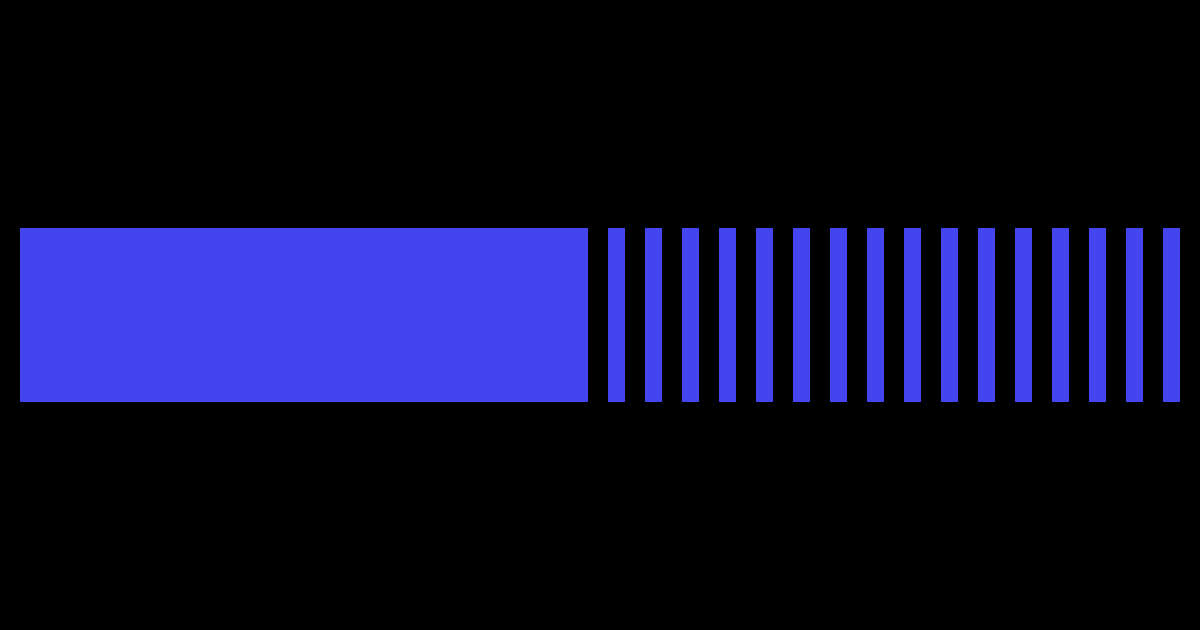
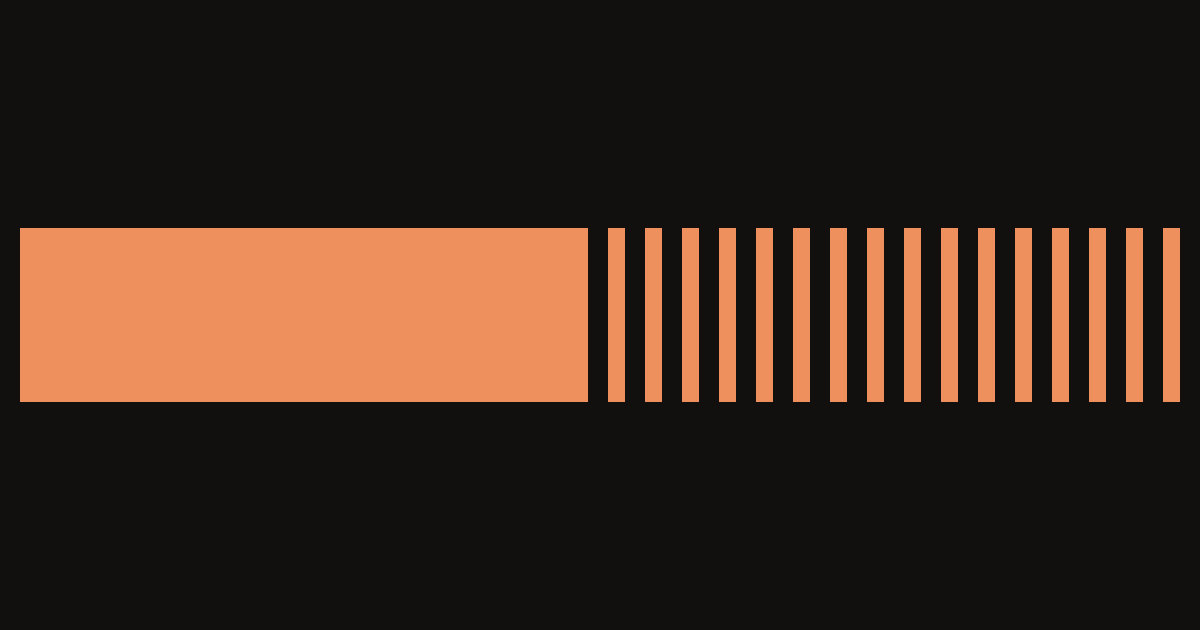
New Blog Post on 2025-02-07 16:47:10

Changed region(s): [[0.0, 0.3619, 0.9867, 0.6635]]

diff --git a/public/css/terminal.min.de0bf1d86376fea76230091a26743306f6c28380a2a7fd0aa5da258a9711c7cd.css b/public/css/terminal.min.de0bf1d86376fea76230091a26743306f6c28380a2a7fd0aa5da258a9711c7cd.css
@@ -1,0 +1,1 @@
+@import "https://cdn.jsdelivr.net/npm/firacode@6.2.0/distr/fira_code.css";:root{--background:#120f0f;--foreground:#eceae5;--accent:#ee905d;--radius:0;--font-size:1rem;--line-height:1.54em}html{box-sizing:border-box}*,*:before,*:after{box-sizing:inherit;margin:0;padding:0}body{margin:0;padding:0;font-family:fira code,Monaco,Consolas,ubuntu mono,monospace;font-size:var(--font-size);font-weight:400;line-height:var(--line-height);letter-spacing:-.01em;background-color:var(--background);color:var(--foreground);text-rendering:optimizeLegibility;font-feature-settings:"liga","tnum","ss01","locl";font-variant-ligatures:contextual;-webkit-overflow-scrolling:touch;-webkit-text-size-adjust:100%}::placeholder{color:color-mix(in srgb var(--foreground) 50%,black)}h1{text-decoration:underline;text-decoration-thickness:2px;text-underline-offset:calc(var(--font-size) * .2)}h1,h2{text-transform:uppercase}h1,h2,h3,h4,h5,h6{font-size:calc(var(--font-size) * 1.1);letter-spacing:.04em}h1,h2,h3,h4,h5,h6,p,ul,ol,img,figure,video,table{margin:calc(var(--line-height) * 1.2)0}a{color:var(--accent)}button{position:relative;font:inherit;font-weight:700;text-decoration:none;text-align:center;background:0 0;color:var(--accent);padding:5px 18px;border:4px solid var(--accent);border-radius:var(--radius);transition:background .15s linear;appearance:none;cursor:pointer;outline:none}button:hover{background:color-mix(in srgb,var(--accent) 15%,transparent)}button:focus-visible,a:focus-visible{outline:1px solid var(--accent);outline-offset:2px}fieldset{display:inline-block;border:2px solid var(--foreground);border-radius:calc(var(--radius) * 1.6);padding:10px}fieldset *:first-child{margin-top:0}fieldset input,fieldset select,fieldset textarea,fieldset label,fieldset button{margin-top:calc(var(--line-height) * .5);width:100%}label{display:inline-block}label input{margin-top:0}input,textarea,select{background:0 0;color:var(--foreground);border:1px solid var(--foreground);border-radius:var(--radius);padding:10px;font:inherit;appearance:none}input[type=checkbox]{width:auto}input:focus-visible,input:active,textarea:focus-visible,textarea:active,select:focus-visible,select:active{border-color:var(--accent);outline:1px solid var(--accent);outline-offset:2px}input:active,textarea:active,select:active{box-shadow:none}select{background-image:linear-gradient( 45deg,transparent 50%,var(--foreground) 50% ),linear-gradient(135deg,var(--foreground) 50%,transparent 50%);background-position:calc(100% - 20px),calc(100% - 15px);background-size:5px 5px,5px 5px;background-repeat:no-repeat;padding-right:40px}select option{background:var(--background)}input[type=checkbox]{vertical-align:middle;padding:10px;box-shadow:inset 0 0 0 3px var(--background)}input[type=checkbox]:checked{background:var(--accent)}img{display:block;max-width:100%;border:8px solid var(--accent);border-radius:var(--radius);padding:8px;overflow:hidden}figure img,figure video{margin-bottom:0}figure figcaption{background:var(--accent);color:var(--background);text-align:center;font-size:1em;font-weight:400;margin-top:-8px;border-radius:0 0 var(--radius)var(--radius)}ul,ol{margin-left:4ch;padding:0}ul ul,ul ol,ol ul,ol ol{margin-top:0}li::marker{color:var(--accent)}ul li,ol li{position:relative}code,kbd{font-family:fira code,Monaco,Consolas,Ubuntu Mono,monospace!important;font-feature-settings:normal;background:color-mix(in srgb,var(--foreground) 5%,transparent);color:color-mix(in srgb,var(--foreground) 5%,var(--accent));padding:0 6px;margin:0 2px;font-size:.95em}code{border:1px solid color-mix(in srgb,var(--foreground) 25%,transparent)}kbd{border-top:1px solid color-mix(in srgb,var(--accent) 25%,transparent);border-left:1px solid var(--accent);border-right:1px solid var(--accent);border-bottom:4px solid var(--accent);border-radius:4px}code code{background:0 0;padding:0;margin:0}pre{tab-size:4;background:color-mix(in srgb,var(--foreground) 5%,transparent)!important;color:color-mix(in srgb,var(--foreground) 5%,var(--accent));padding:20px 10px;font-size:.95em!important;overflow:auto;border-radius:var(--radius);border:1px solid color-mix(in srgb,var(--foreground) 25%,transparent)}pre code{background:0 0!important;margin:0;padding:0;font-size:inherit;border:none}sup{line-height:0}abbr{position:relative;text-decoration-style:wavy;text-decoration-color:var(--accent);cursor:help}sub{bottom:-.25em}sup{top:-.25em}mark{background:color-mix(in srgb,var(--accent) 45%,transparent);color:var(--foreground)}blockquote{position:relative;border-top:1px solid var(--accent);border-bottom:1px solid var(--accent);margin:0;padding:25px}blockquote:before{content:">";display:block;position:absolute;left:0;color:var(--accent)}blockquote p:first-child{margin-top:0}blockquote p:last-child{margin-bottom:0}table{table-layout:auto;border-collapse:collapse}table,th,td{border:2px solid var(--foreground);padding:10px}th{border-style:solid;color:var(--foreground);text-align:left;text-transform:uppercase;letter-spacing:.04em}hr{width:100%;border:none;background:var(--accent);height:2px}h1,h2,h3,h4,h5,h6,b,strong,th,button{font-weight:600}

diff --git a/public/about/index.html b/public/about/index.html
@@ -2,16 +2,18 @@
 <html lang="en">
 <head>
   
-    <title>Tags :: A simple blog</title>
+    <title>About :: A simple blog</title>
   
   <meta http-equiv="content-type" content="text/html; charset=utf-8">
 <meta name="viewport" content="width=device-width, initial-scale=1.0">
-<meta name="description" content="" />
+<meta name="description" content="Hi there My name is Tony and I&rsquo;m the author of this simple blog. I made it to document and present cool ideas.
+When I&rsquo;m not designing, implementing, and maintaining secure and efficient network infrastructures, supporting virtualization and cloud networking, and contributing to ensure data protection, disaster recovery, and business continuity, I&rsquo;m learning anything that interests me.
+" />
 <meta name="keywords" content="" />
 
   <meta name="robots" content="noodp" />
 
-<link rel="canonical" href="/tags/" />
+<link rel="canonical" href="/about/" />
 
 
 
@@ -74,15 +76,17 @@
   
     <meta name="twitter:site" content="" />
   
-    <meta name="twitter:creator" content="" />
+    <meta name="twitter:creator" content="Tony" />
 
 
 
 <meta property="og:locale" content="en" />
-<meta property="og:type" content="website" />
-<meta property="og:title" content="Tags">
-<meta property="og:description" content="" />
-<meta property="og:url" content="/tags/" />
+<meta property="og:type" content="article" />
+<meta property="og:title" content="About">
+<meta property="og:description" content="Hi there My name is Tony and I&rsquo;m the author of this simple blog. I made it to document and present cool ideas.
+When I&rsquo;m not designing, implementing, and maintaining secure and efficient network infrastructures, supporting virtualization and cloud networking, and contributing to ensure data protection, disaster recovery, and business continuity, I&rsquo;m learning anything that interests me.
+" />
+<meta property="og:url" content="/about/" />
 <meta property="og:site_name" content="A simple blog" />
 
   <meta property="og:image" content="/og-image.png">
@@ -91,10 +95,10 @@
 <meta property="og:image:height" content="627">
 
 
+  <meta property="article:published_time" content="2025-01-01 00:00:00 &#43;0000 UTC" />
 
 
 
-  <link href="/tags/index.xml" rel="alternate" type="application/rss+xml" title="A simple blog" />
 
 
 
@@ -177,22 +181,32 @@
 
   <div class="content">
     
-  <div class="terms">
-    <h1>Tags</h1>
+<article class="post">
+  <h1 class="post-title">
+    <a href="/about/">About</a>
+  </h1>
+  <div class="post-meta"><time class="post-date">2025-01-01</time><span class="post-author">Tony</span></div>
+
+  
+  
+
+
+  
+
+  <div class="post-content"><div>
+        <h1 id="hi-there">Hi there<a href="#hi-there" class="hanchor" ariaLabel="Anchor">#</a> </h1>
+<p>My name is Tony and I&rsquo;m the author of this simple blog. I made it to document and present cool ideas.</p>
+<p>When I&rsquo;m not designing, implementing, and maintaining secure and efficient network infrastructures, supporting virtualization and cloud networking, and contributing to ensure data protection, disaster recovery, and business continuity, I&rsquo;m learning anything that interests me.</p>
+
+      </div></div>
+
+  
+
+  
     
-    <ul>
-      
-      
-        
-        
-        
-          <li>
-            <a class="terms-title" href="/tags/test/">test [3]</a>
-          </li>
-        
-      
-    </ul>
-  </div>
+
+  
+</article>
 
   </div>
 

diff --git a/public/posts/snatching-chucks-insane-blog-pipeline/index.html b/public/posts/snatching-chucks-insane-blog-pipeline/index.html
@@ -56,7 +56,7 @@ testing!!! 123 5678 shoutout to NetworkChuck over at https://www.youtube.com/@Ne
   <link rel="stylesheet" href="/css/syntax.min.cc789ed9377260d7949ea4c18781fc58959a89287210fe4edbff44ebfc1511b6.css">
 
   
-  <link rel="stylesheet" href="/css/terminal.min.979dd9fa3d4f89b58f0894115ab3260d6d1233e3e3dccba706c2195efcafb362.css">
+  <link rel="stylesheet" href="/css/terminal.min.de0bf1d86376fea76230091a26743306f6c28380a2a7fd0aa5da258a9711c7cd.css">
 
   
   <link rel="stylesheet" href="/css/terms.min.b81791663c3790e738e571cdbf802312390d30e4b1d8dc9d814a5b5454d0ac11.css">
@@ -155,10 +155,21 @@ testing!!! 123 5678 shoutout to NetworkChuck over at https://www.youtube.com/@Ne
           <li><a href="/about" >About</a></li>
         
       
-        
-          <li><a href="/showcase" >Showcase</a></li>
-        
       
+        <li>
+          <ul class="menu">
+            <li class="menu__trigger">Show more&nbsp;▾</li>
+            <li>
+              <ul class="menu__dropdown">
+                
+                  
+                    <li><a href="/showcase" >Showcase</a></li>
+                  
+                
+              </ul>
+            </li>
+          </ul>
+        </li>
       
     
   </ul>

diff --git a/public/posts/just-a-test/index.html b/public/posts/just-a-test/index.html
@@ -58,7 +58,7 @@ fin.
   <link rel="stylesheet" href="/css/syntax.min.cc789ed9377260d7949ea4c18781fc58959a89287210fe4edbff44ebfc1511b6.css">
 
   
-  <link rel="stylesheet" href="/css/terminal.min.979dd9fa3d4f89b58f0894115ab3260d6d1233e3e3dccba706c2195efcafb362.css">
+  <link rel="stylesheet" href="/css/terminal.min.de0bf1d86376fea76230091a26743306f6c28380a2a7fd0aa5da258a9711c7cd.css">
 
   
   <link rel="stylesheet" href="/css/terms.min.b81791663c3790e738e571cdbf802312390d30e4b1d8dc9d814a5b5454d0ac11.css">
@@ -159,10 +159,21 @@ fin.
           <li><a href="/about" >About</a></li>
         
       
-        
-          <li><a href="/showcase" >Showcase</a></li>
-        
       
+        <li>
+          <ul class="menu">
+            <li class="menu__trigger">Show more&nbsp;▾</li>
+            <li>
+              <ul class="menu__dropdown">
+                
+                  
+                    <li><a href="/showcase" >Showcase</a></li>
+                  
+                
+              </ul>
+            </li>
+          </ul>
+        </li>
       
     
   </ul>

diff --git a/public/404.html b/public/404.html
@@ -54,7 +54,7 @@
   <link rel="stylesheet" href="/css/syntax.min.cc789ed9377260d7949ea4c18781fc58959a89287210fe4edbff44ebfc1511b6.css">
 
   
-  <link rel="stylesheet" href="/css/terminal.min.979dd9fa3d4f89b58f0894115ab3260d6d1233e3e3dccba706c2195efcafb362.css">
+  <link rel="stylesheet" href="/css/terminal.min.de0bf1d86376fea76230091a26743306f6c28380a2a7fd0aa5da258a9711c7cd.css">
 
   
   <link rel="stylesheet" href="/css/terms.min.b81791663c3790e738e571cdbf802312390d30e4b1d8dc9d814a5b5454d0ac11.css">
@@ -149,10 +149,21 @@
           <li><a href="/about" >About</a></li>
         
       
-        
-          <li><a href="/showcase" >Showcase</a></li>
-        
       
+        <li>
+          <ul class="menu">
+            <li class="menu__trigger">Show more&nbsp;▾</li>
+            <li>
+              <ul class="menu__dropdown">
+                
+                  
+                    <li><a href="/showcase" >Showcase</a></li>
+                  
+                
+              </ul>
+            </li>
+          </ul>
+        </li>
       
     
   </ul>

diff --git a/public/categories/index.html b/public/categories/index.html
@@ -54,7 +54,7 @@
   <link rel="stylesheet" href="/css/syntax.min.cc789ed9377260d7949ea4c18781fc58959a89287210fe4edbff44ebfc1511b6.css">
 
   
-  <link rel="stylesheet" href="/css/terminal.min.979dd9fa3d4f89b58f0894115ab3260d6d1233e3e3dccba706c2195efcafb362.css">
+  <link rel="stylesheet" href="/css/terminal.min.de0bf1d86376fea76230091a26743306f6c28380a2a7fd0aa5da258a9711c7cd.css">
 
   
   <link rel="stylesheet" href="/css/terms.min.b81791663c3790e738e571cdbf802312390d30e4b1d8dc9d814a5b5454d0ac11.css">
@@ -151,10 +151,21 @@
           <li><a href="/about" >About</a></li>
         
       
-        
-          <li><a href="/showcase" >Showcase</a></li>
-        
       
+        <li>
+          <ul class="menu">
+            <li class="menu__trigger">Show more&nbsp;▾</li>
+            <li>
+              <ul class="menu__dropdown">
+                
+                  
+                    <li><a href="/showcase" >Showcase</a></li>
+                  
+                
+              </ul>
+            </li>
+          </ul>
+        </li>
       
     
   </ul>

diff --git a/public/index.html b/public/index.html
@@ -55,7 +55,7 @@
   <link rel="stylesheet" href="/css/syntax.min.cc789ed9377260d7949ea4c18781fc58959a89287210fe4edbff44ebfc1511b6.css">
 
   
-  <link rel="stylesheet" href="/css/terminal.min.979dd9fa3d4f89b58f0894115ab3260d6d1233e3e3dccba706c2195efcafb362.css">
+  <link rel="stylesheet" href="/css/terminal.min.de0bf1d86376fea76230091a26743306f6c28380a2a7fd0aa5da258a9711c7cd.css">
 
   
   <link rel="stylesheet" href="/css/terms.min.b81791663c3790e738e571cdbf802312390d30e4b1d8dc9d814a5b5454d0ac11.css">
@@ -152,10 +152,21 @@
           <li><a href="/about" >About</a></li>
         
       
-        
-          <li><a href="/showcase" >Showcase</a></li>
-        
       
+        <li>
+          <ul class="menu">
+            <li class="menu__trigger">Show more&nbsp;▾</li>
+            <li>
+              <ul class="menu__dropdown">
+                
+                  
+                    <li><a href="/showcase" >Showcase</a></li>
+                  
+                
+              </ul>
+            </li>
+          </ul>
+        </li>
       
     
   </ul>

diff --git a/public/posts/index.html b/public/posts/index.html
@@ -54,7 +54,7 @@
   <link rel="stylesheet" href="/css/syntax.min.cc789ed9377260d7949ea4c18781fc58959a89287210fe4edbff44ebfc1511b6.css">
 
   
-  <link rel="stylesheet" href="/css/terminal.min.979dd9fa3d4f89b58f0894115ab3260d6d1233e3e3dccba706c2195efcafb362.css">
+  <link rel="stylesheet" href="/css/terminal.min.de0bf1d86376fea76230091a26743306f6c28380a2a7fd0aa5da258a9711c7cd.css">
 
   
   <link rel="stylesheet" href="/css/terms.min.b81791663c3790e738e571cdbf802312390d30e4b1d8dc9d814a5b5454d0ac11.css">
@@ -151,10 +151,21 @@
           <li><a href="/about" >About</a></li>
         
       
-        
-          <li><a href="/showcase" >Showcase</a></li>
-        
       
+        <li>
+          <ul class="menu">
+            <li class="menu__trigger">Show more&nbsp;▾</li>
+            <li>
+              <ul class="menu__dropdown">
+                
+                  
+                    <li><a href="/showcase" >Showcase</a></li>
+                  
+                
+              </ul>
+            </li>
+          </ul>
+        </li>
       
     
   </ul>

diff --git a/public/posts/testing-powershell-script/index.html b/public/posts/testing-powershell-script/index.html
@@ -55,7 +55,7 @@
   <link rel="stylesheet" href="/css/syntax.min.cc789ed9377260d7949ea4c18781fc58959a89287210fe4edbff44ebfc1511b6.css">
 
   
-  <link rel="stylesheet" href="/css/terminal.min.979dd9fa3d4f89b58f0894115ab3260d6d1233e3e3dccba706c2195efcafb362.css">
+  <link rel="stylesheet" href="/css/terminal.min.de0bf1d86376fea76230091a26743306f6c28380a2a7fd0aa5da258a9711c7cd.css">
 
   
   <link rel="stylesheet" href="/css/terms.min.b81791663c3790e738e571cdbf802312390d30e4b1d8dc9d814a5b5454d0ac11.css">
@@ -153,10 +153,21 @@
           <li><a href="/about" >About</a></li>
         
       
-        
-          <li><a href="/showcase" >Showcase</a></li>
-        
       
+        <li>
+          <ul class="menu">
+            <li class="menu__trigger">Show more&nbsp;▾</li>
+            <li>
+              <ul class="menu__dropdown">
+                
+                  
+                    <li><a href="/showcase" >Showcase</a></li>
+                  
+                
+              </ul>
+            </li>
+          </ul>
+        </li>
       
     
   </ul>

diff --git a/public/tags/test/index.html b/public/tags/test/index.html
@@ -54,7 +54,7 @@
   <link rel="stylesheet" href="/css/syntax.min.cc789ed9377260d7949ea4c18781fc58959a89287210fe4edbff44ebfc1511b6.css">
 
   
-  <link rel="stylesheet" href="/css/terminal.min.979dd9fa3d4f89b58f0894115ab3260d6d1233e3e3dccba706c2195efcafb362.css">
+  <link rel="stylesheet" href="/css/terminal.min.de0bf1d86376fea76230091a26743306f6c28380a2a7fd0aa5da258a9711c7cd.css">
 
   
   <link rel="stylesheet" href="/css/terms.min.b81791663c3790e738e571cdbf802312390d30e4b1d8dc9d814a5b5454d0ac11.css">
@@ -151,10 +151,21 @@
           <li><a href="/about" >About</a></li>
         
       
-        
-          <li><a href="/showcase" >Showcase</a></li>
-        
       
+        <li>
+          <ul class="menu">
+            <li class="menu__trigger">Show more&nbsp;▾</li>
+            <li>
+              <ul class="menu__dropdown">
+                
+                  
+                    <li><a href="/showcase" >Showcase</a></li>
+                  
+                
+              </ul>
+            </li>
+          </ul>
+        </li>
       
     
   </ul>

diff --git a/content/about.md b/content/about.md
@@ -1,0 +1,11 @@
++++
+title = "About"
+date = "2025-01-01"
+author = "Tony"
++++
+
+# Hi there
+
+My name is Tony and I'm the author of this simple blog. I made it to document and present cool ideas.
+
+When I'm not designing, implementing, and maintaining secure and efficient network infrastructures, supporting virtualization and cloud networking, and contributing to ensure data protection, disaster recovery, and business continuity, I'm learning anything that interests me.
